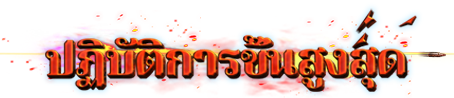
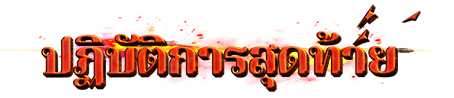
chore: update game name MI7

diff --git a/assets/games/mission-impossible/i18n/texts/game-68-th.ts b/assets/games/mission-impossible/i18n/texts/game-68-th.ts
@@ -2,10 +2,10 @@ import { reloadLanguageData } from "../../../../common/i18n/CustomLanguageData";
 
 export const phrases = {
     gameNames: {
-        68: "ปฏิบัติการขั้นสูงสุด"
+        68: "ปฏิบัติการสุดท้าย"
     },
     lobbyNames: {
-        68: "ปฏิบัติการขั้นสูงสุด"
+        68: "ปฏิบัติการ\nสุดท้าย"
     }
 };
 
